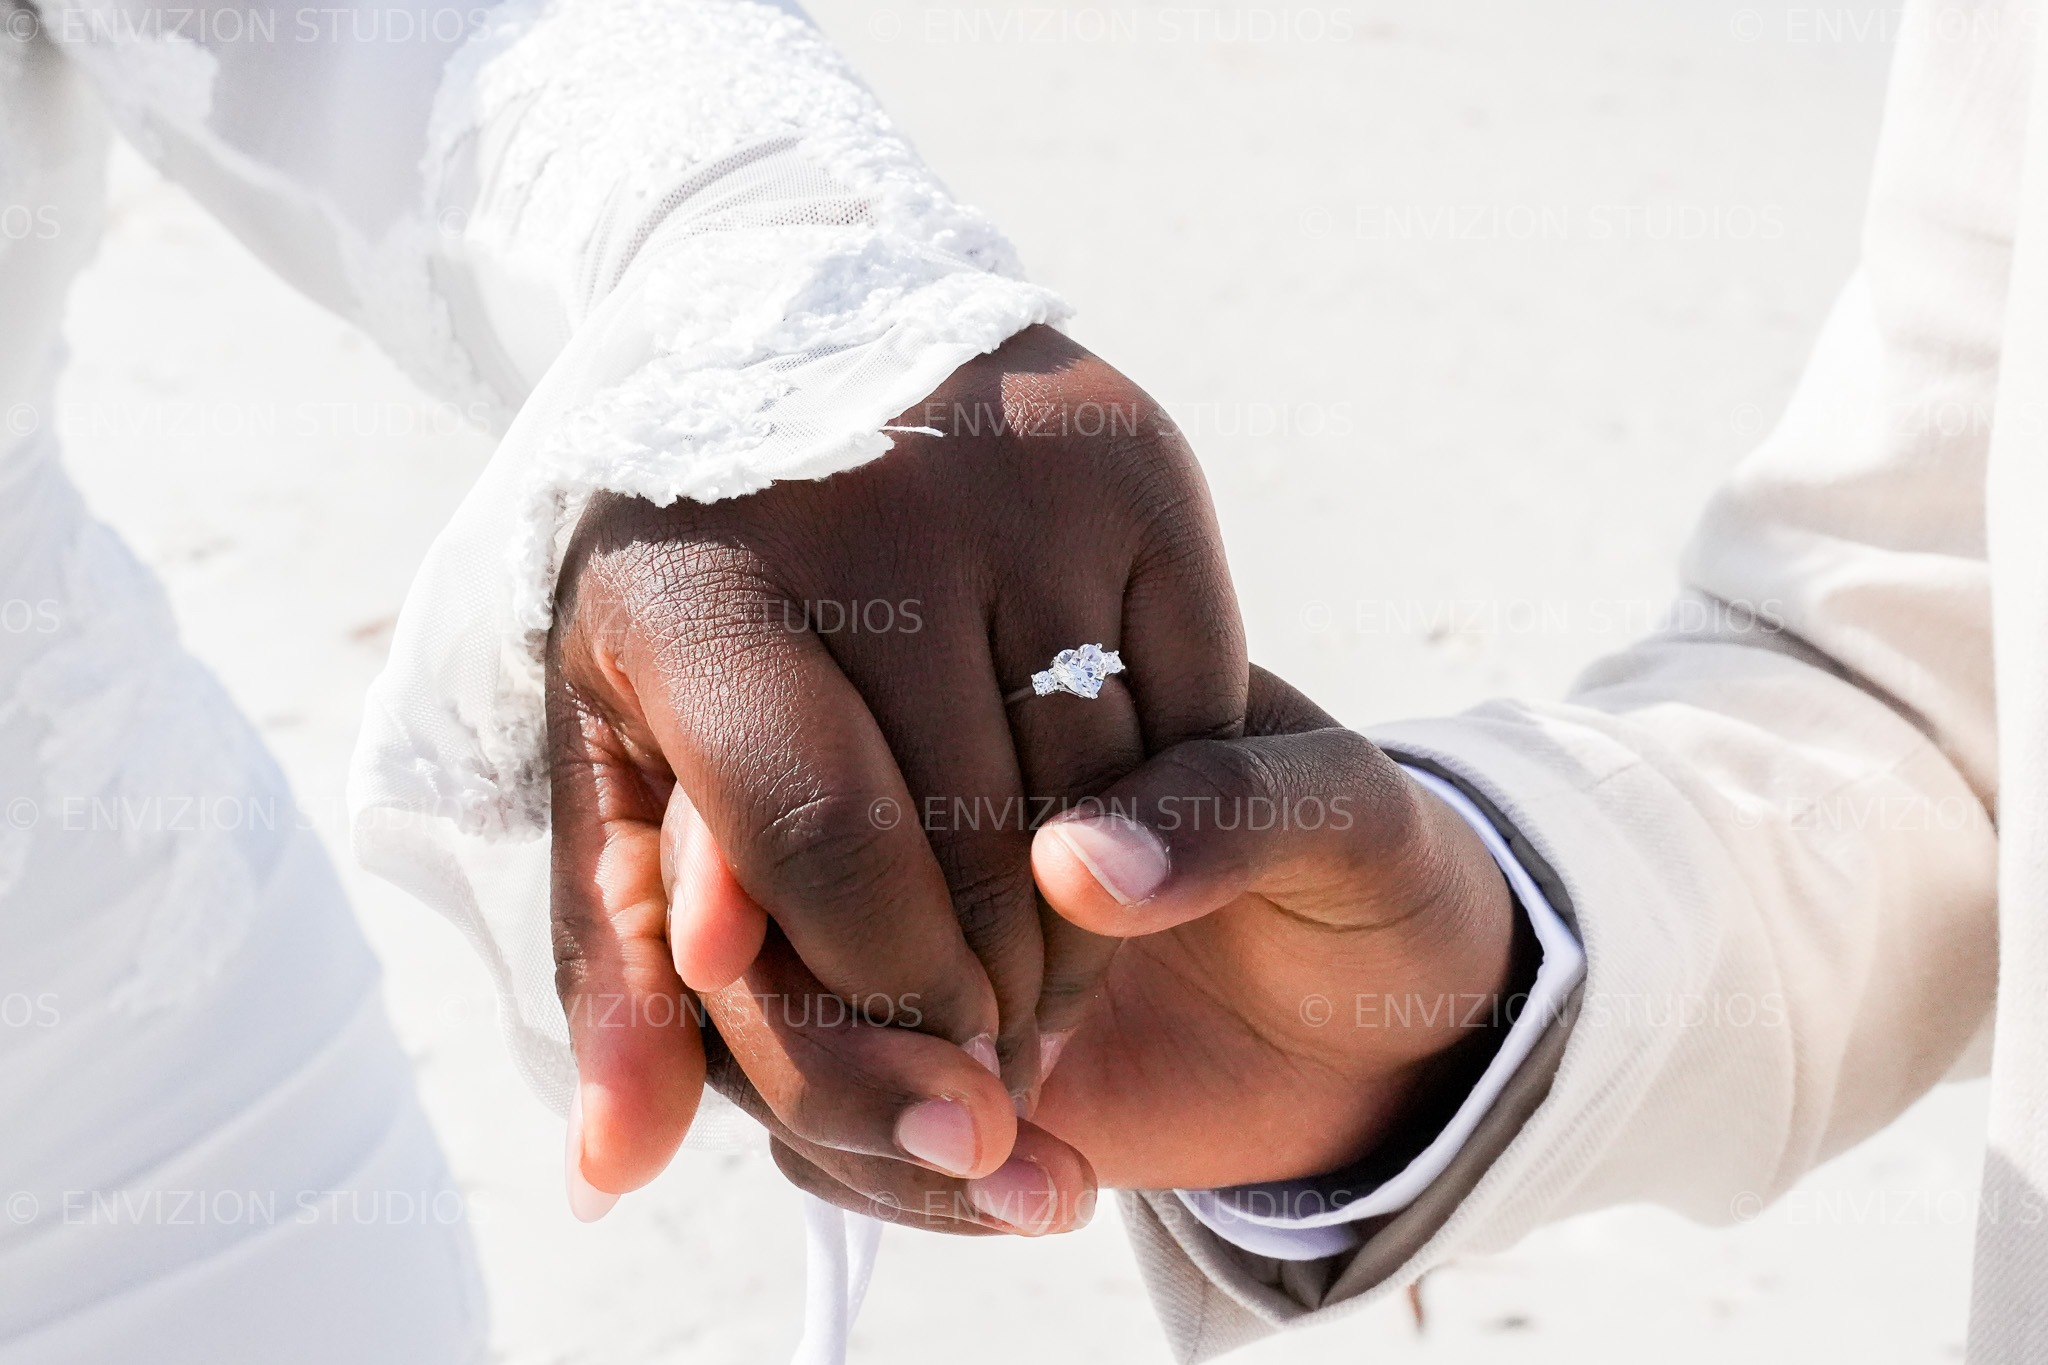
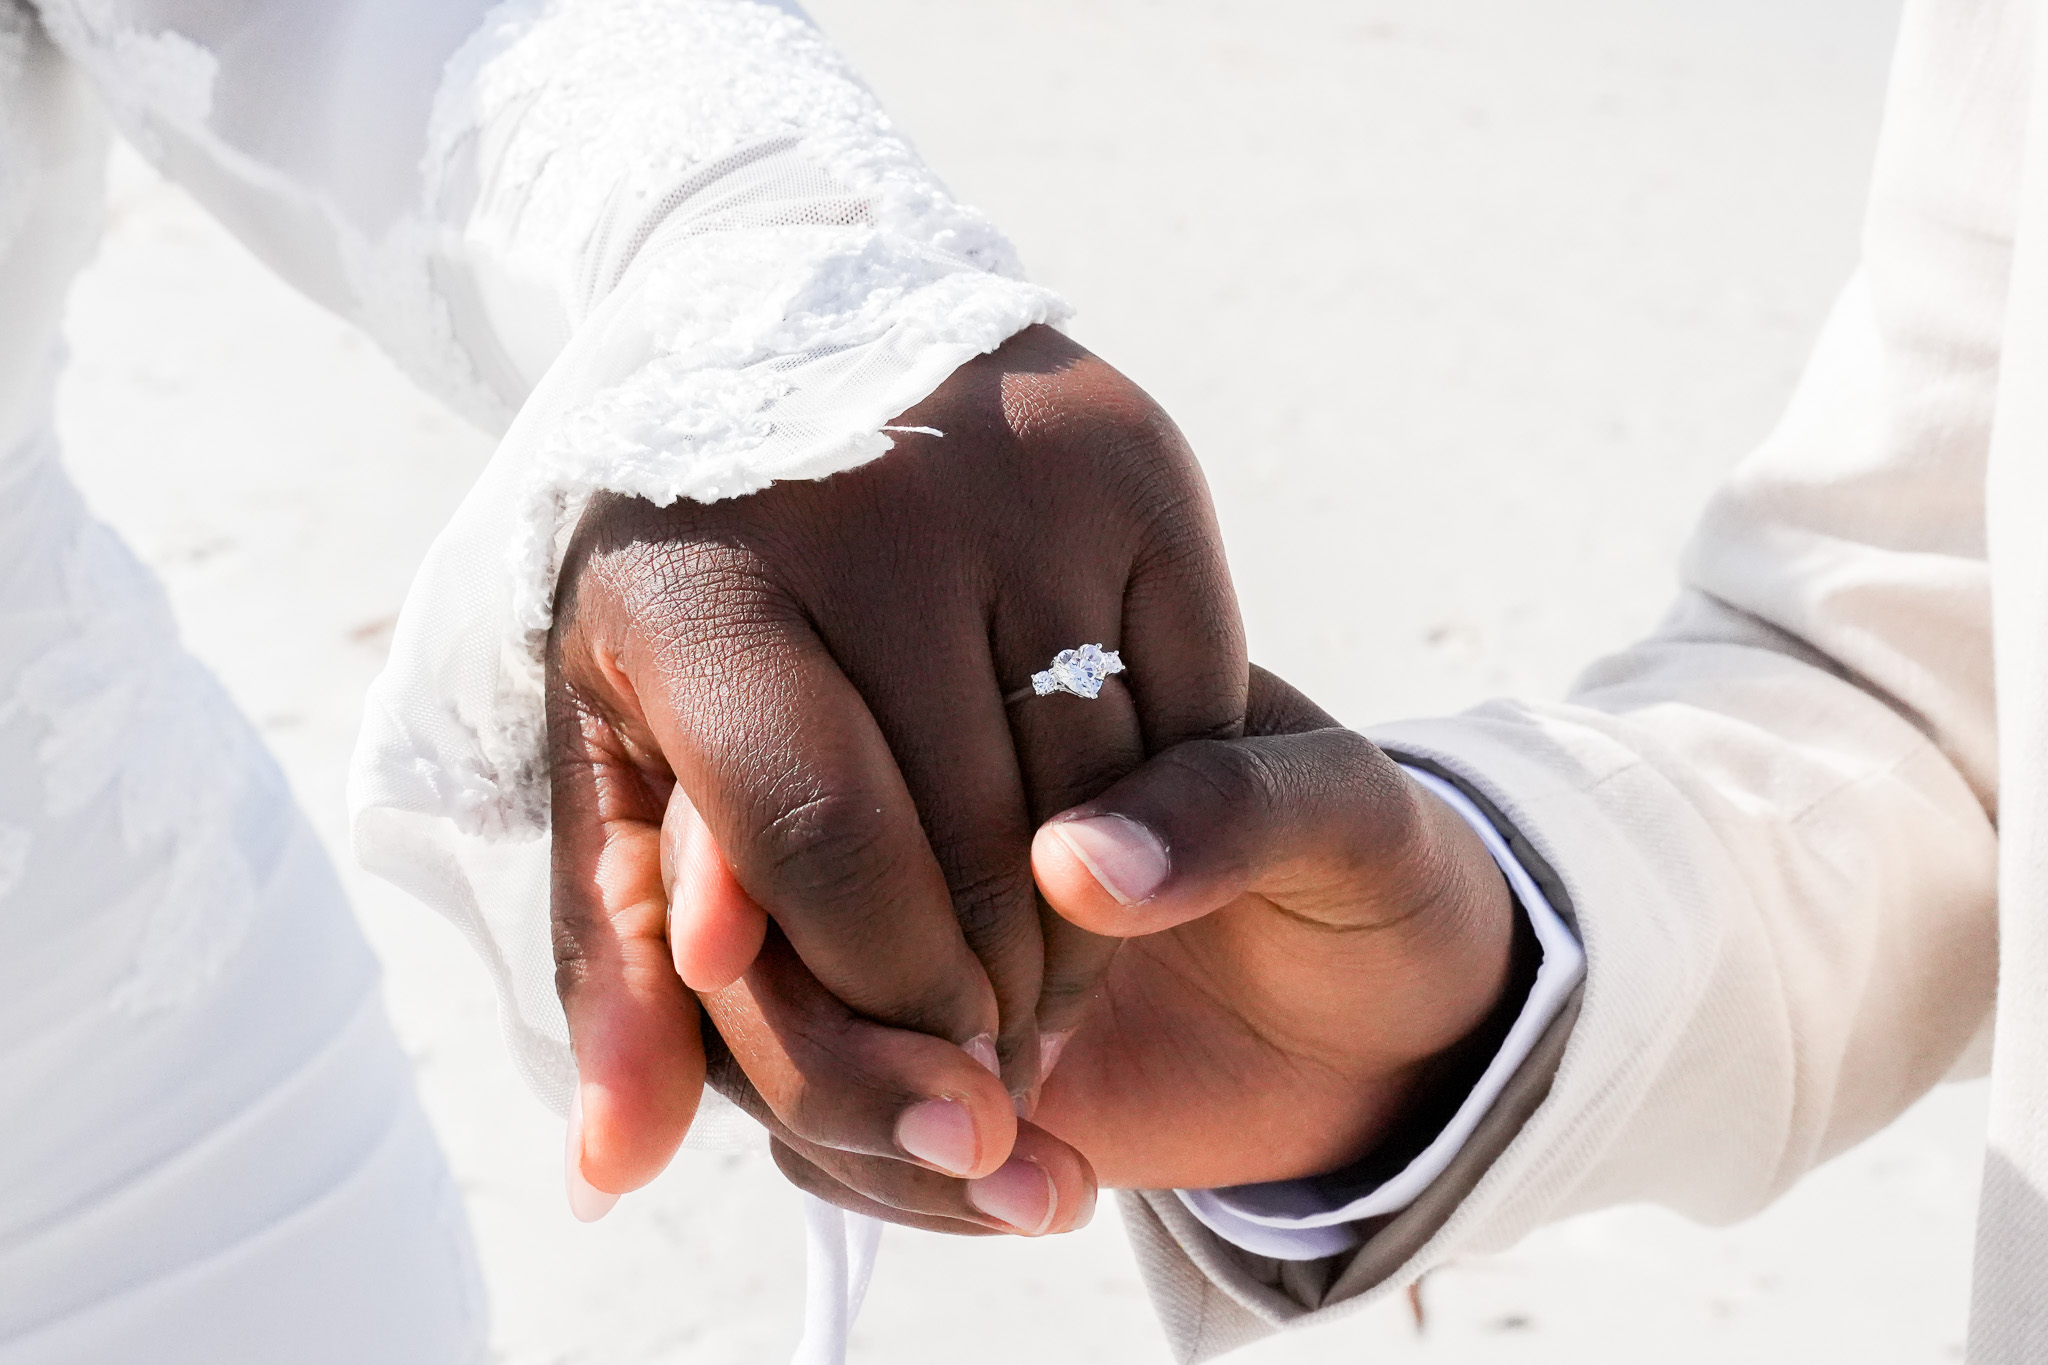
Remove watermarks — client has paid in full

diff --git a/gallery-weddings.html b/gallery-weddings.html
@@ -259,25 +259,6 @@
     }
     .carousel-slide img.loaded { opacity: 1; }
 
-    /* Watermark overlay */
-    .carousel-slide::after {
-      content: '© ENVIZION STUDIOS   © ENVIZION STUDIOS   © ENVIZION STUDIOS';
-      position: absolute;
-      inset: 0;
-      display: flex;
-      align-items: center;
-      justify-content: center;
-      font-family: 'Montserrat', sans-serif;
-      font-size: clamp(11px, 1.4vw, 18px);
-      font-weight: 500;
-      letter-spacing: 0.28em;
-      text-transform: uppercase;
-      color: rgba(255,255,255,0.18);
-      pointer-events: none;
-      text-shadow: 0 1px 3px rgba(0,0,0,0.4);
-      word-spacing: 0.4em;
-      z-index: 5;
-    }
 
     /* Placeholder when no image yet */
     .carousel-placeholder {
